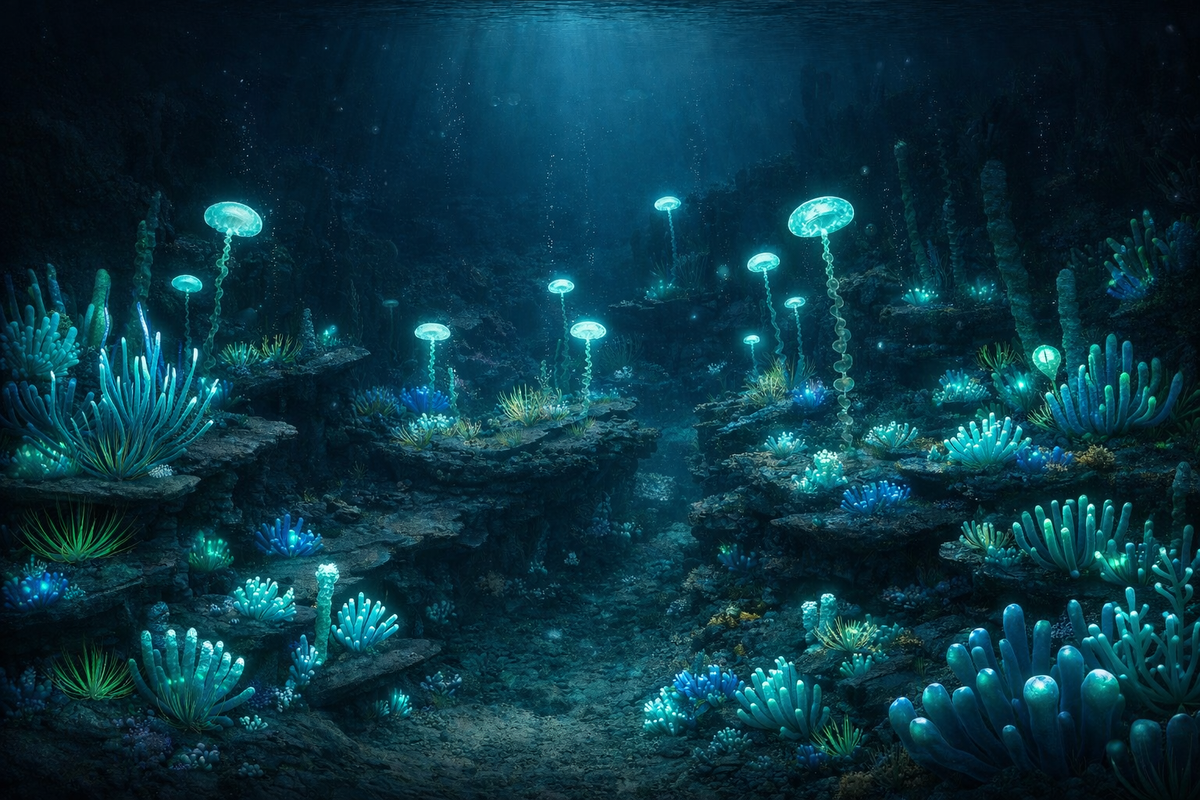
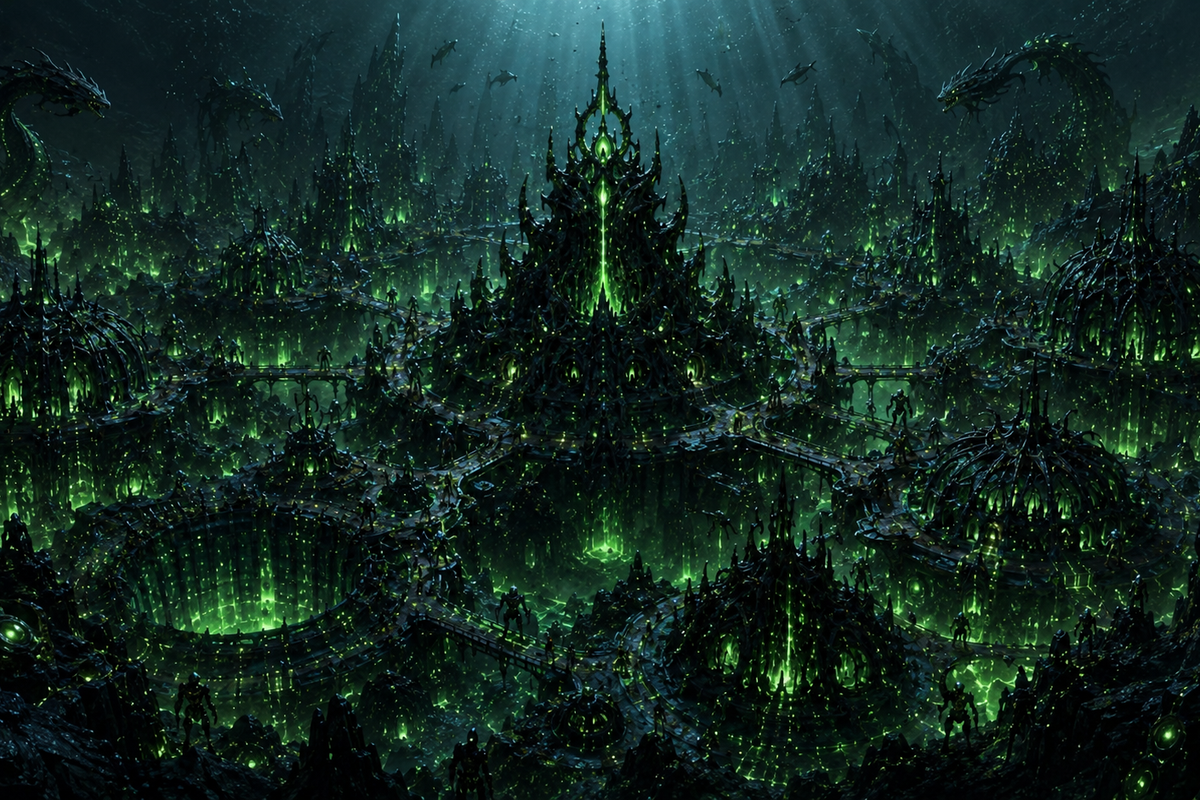
Intègre 2 des nouvelles illustrations : fond de menu principal + fond de cité Noxéens
Parmi le lot d'images envoyées (art-clé WOTOL, mockups d'UI, planches de
lore) : Liamor a demandé d'en intégrer certaines à la démo maintenant et
de garder le reste en référence pour plus tard (documenté dans
TODO_WOTOL.md).

Intégrées :
- MainMenuBG.png : remplacé par l'illustration montrant les deux
  factions face à face avec le logo WOTOL déjà incrusté (DrawMainMenu ne
  redessine pas de titre par-dessus, l'image doit déjà le contenir).
- CityBackdropNoxeens.png : remplacé par une vraie illustration de cité
  organique (tours/dômes bioluminescents reliés par des chemins) — retire
  le garde-fou du 31/07/2026 qui désactivait ce fond côté Noxéens faute
  d'illustration correcte (l'ancienne n'avait aucune architecture).

diff --git a/Source/WOTOL/Gameplay/Demo/WOTOLBuildingArt.cpp b/Source/WOTOL/Gameplay/Demo/WOTOLBuildingArt.cpp
@@ -92,19 +92,11 @@ UTexture2D* WOTOLBuildingArt::GetTerritoryBastionIcon(EFactionID Faction)
 
 UTexture2D* WOTOLBuildingArt::GetCityBackdrop(EFactionID Faction)
 {
-	// BUG D'ASSET CONFIRME (retour terrain 31/07/2026, recherche dediee) : Content/UI/
-	// CityBackdropNoxeens.png n'est PAS une illustration de cite (contrairement a
-	// CityBackdropAquiloris.png, une vraie planche de cite-cristal) — c'est une scene de
-	// recif/grotte bioluminescente SANS aucune architecture. Comme ce fond occupe TOUT le
-	// cadre de la camera orthographique (design voulu, cf. commentaire dans
-	// WOTOLCityEnvironment.cpp), la mauvaise image donnait l'impression d'un simple aplat bleu
-	// plat sans cite du tout. En attendant une vraie illustration de cite Noxeens (meme esprit
-	// que la planche Aquiloris, fournie par Liamor), on N'AFFICHE PAS ce fond incorrect -> la
-	// vraie geometrie 3D de la cite (hub + anneau de batiments + decor organique) redevient
-	// visible au premier plan, plus sobre mais correcte, plutot que masquee par une image hors
-	// sujet. Retirer ce garde-fou des qu'un vrai CityBackdropNoxeens.png (illustration de cite)
-	// est fourni.
-	if (Faction == EFactionID::Noxeens) return nullptr;
+	// Garde-fou du 31/07/2026 RETIRE le 02/08/2026 : Content/UI/CityBackdropNoxeens.png a été
+	// remplacé par une vraie illustration de cité organique (tours/dômes bioluminescents reliés
+	// par des chemins, même esprit que la planche Aquiloris), fournie par Liamor. Le fond
+	// incorrect (scène de récif sans architecture) qui justifiait de désactiver l'affichage
+	// côté Noxéens n'existe plus.
 	const TCHAR* Fac = FactionPrefix(Faction);
 	if (!Fac) return nullptr;
 	return LoadCached(FString::Printf(TEXT("CityBackdrop%s.png"), Fac));
